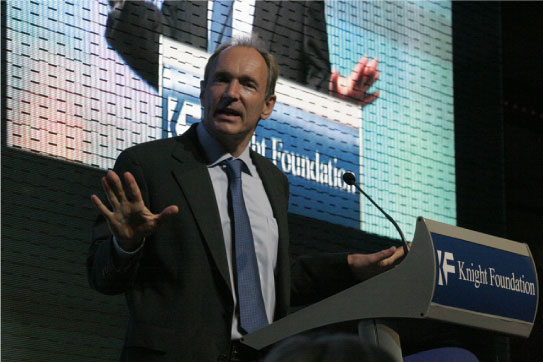
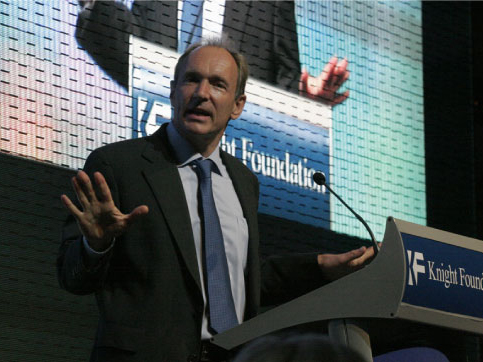
footer

diff --git a/css/style.css b/css/style.css
@@ -1,13 +1,13 @@
+/* ======================
+    GENERAL RULES
+====================== */
+
 *{
     margin: 0%;
     box-sizing: border-box
 }
 
-/* ======================
-    GENERAL RULES
-====================== */
-
-header, main, footer{
+main, footer{
     margin-left: 10px;
 }
 
@@ -49,7 +49,10 @@ header{
 
 .tim-img{
     width: 100%;
-    margin: 20px 0 20px
+    margin: 20px 0 20px;
+}
+.tim-img img{
+    width: 49%
 }
 
 /* ======================
@@ -60,13 +63,11 @@ header{
         SECOND
 ====================== */
 
-
 #second span{
     background-color: yellow;
 }
 
 ul, table, #second p{
-
     margin: 40px 0 40px;
 }
 
@@ -94,6 +95,29 @@ tr th{
 
 footer h3{
     color: rgb(156, 156, 156);
+}
+
+.box{
+    width: 300px;
+    height: 200px;
+    background-color: red;
+    margin-top: 30px;
+    color: white;
+    font-size: 1.3em;
+    font-weight: bold;
+    padding: .3em 1em;
+}
+
+.img1{
+    background-image: url(../img/graph.jpg);
+    background-size: cover;
+    background-repeat: no-repeat;
+}
+.img2{
+    background-image: url(../img/monitor.jpg);
+    background-size: cover;
+    background-repeat: no-repeat;
+    margin-bottom: 100px;
 }
 
 /* ======================

diff --git a/index.html b/index.html
@@ -26,9 +26,10 @@
             </div>
 
             <div class="tim-img">
-
-                <img src="img/tim-1.jpg" alt="">
-                <img src="img/tim-2.jpg" alt="">
+                
+                    <img src="img/tim-1.jpg" alt="">
+                    <img src="img/tim-2.jpg" alt="">
+                
                 <p>1st photo: John S. and James L. Knight Foundation, by Scott Henrichsen </p>
                 <p>2nd Photo: Wikimedia, by Paul Clarke</p>
             </div>
@@ -78,6 +79,17 @@
         </section>
 
     </main>
+
+    <footer>
+        <h3>Potrebbero interessarti</h3>
+
+        <div class="box img1">
+            Lorem ipsum dolor
+        </div>
+        <div class="box img2">
+            Lorem ipsum dolor
+        </div>
+    </footer>
    
 </body>
 </html>
